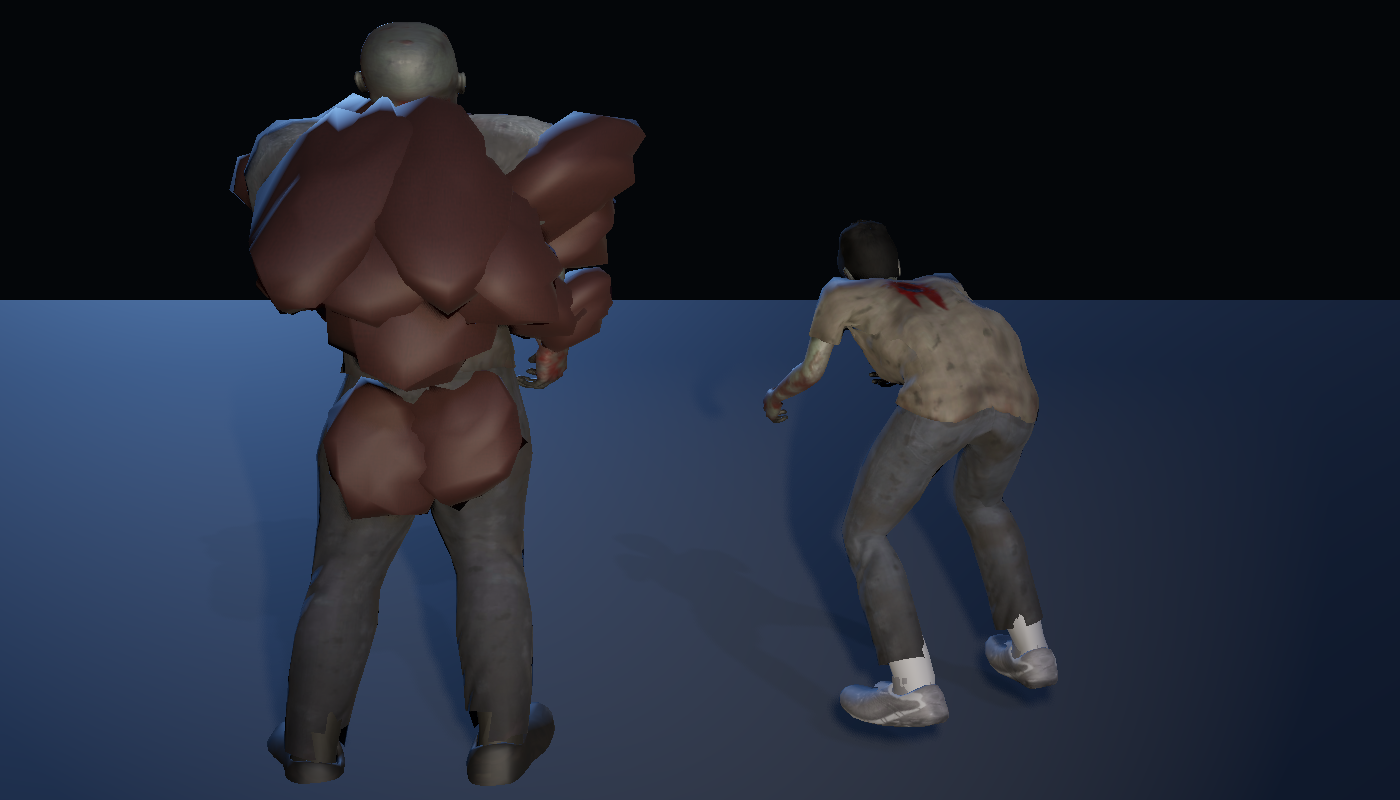
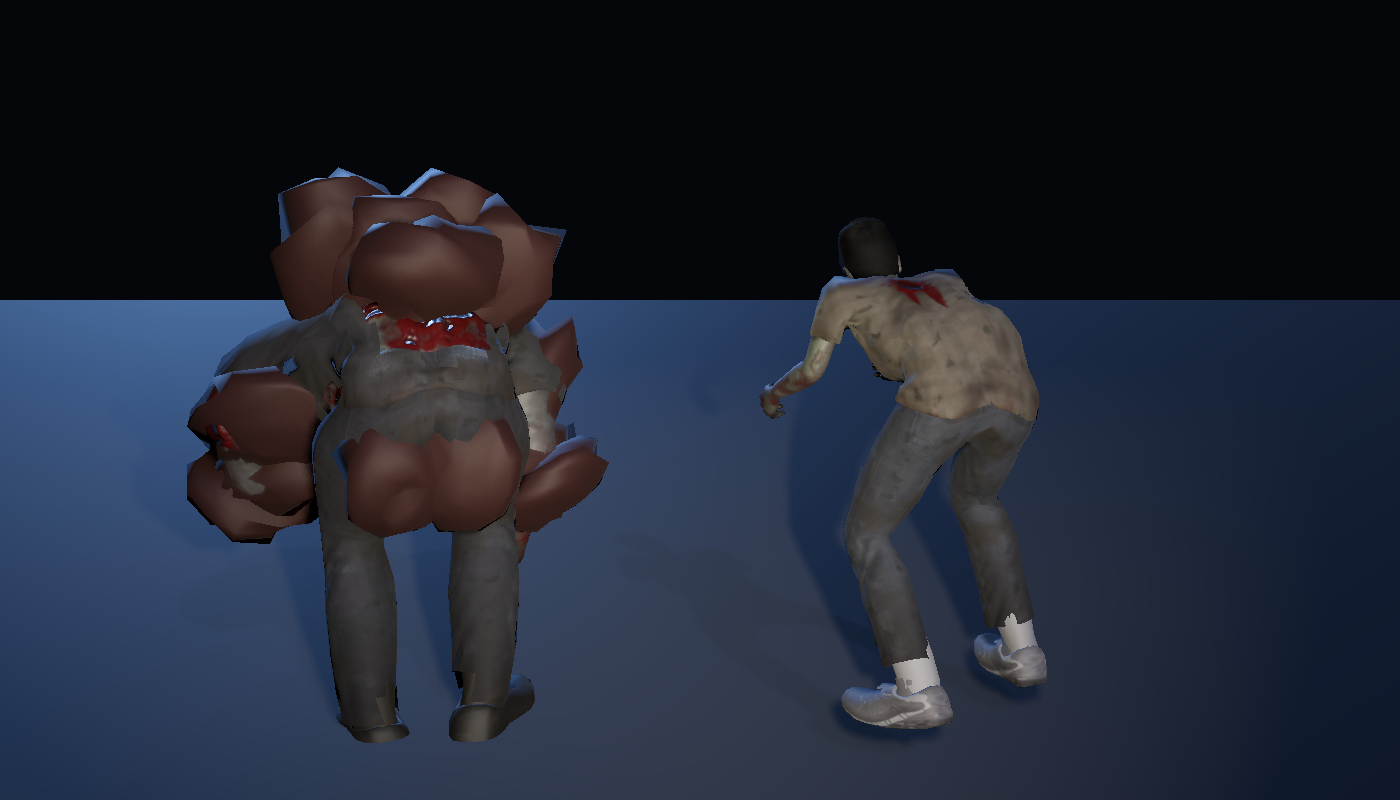
Animation pass 3 (agent D): final anim export, jaw layer hook, revolver reload
Claude-Session: https://claude.ai/code/session_01G7aVdG9ya2cAjj89EVQU5i

diff --git a/whiteout/tools/charpipe/zombies.py b/whiteout/tools/charpipe/zombies.py
@@ -288,7 +288,7 @@ def tear_spots(cb, spec):
     groups = [("spine_01", "spine_02", "spine_03"), ("upperarm_l", "upperarm_r", "lowerarm_l", "lowerarm_r"), ("thigh_l", "thigh_r")]
     out = []
     zmid = cb.conv(H.joint("joint-spine-2"))[2]
-    for kind, sign, rad in (("flay", 1.0, 0.17), ("rupture", -1.0, 0.16)):
+    for kind, sign, rad in (("flay", 1.0, 0.25), ("rupture", -1.0, 0.2)):
         if spec.get(kind):
             mm = np.where((np.abs(bp[:, 0]) < 0.04) & (np.abs(bp[:, 2] - zmid) < 0.03))[0]
             if len(mm):
